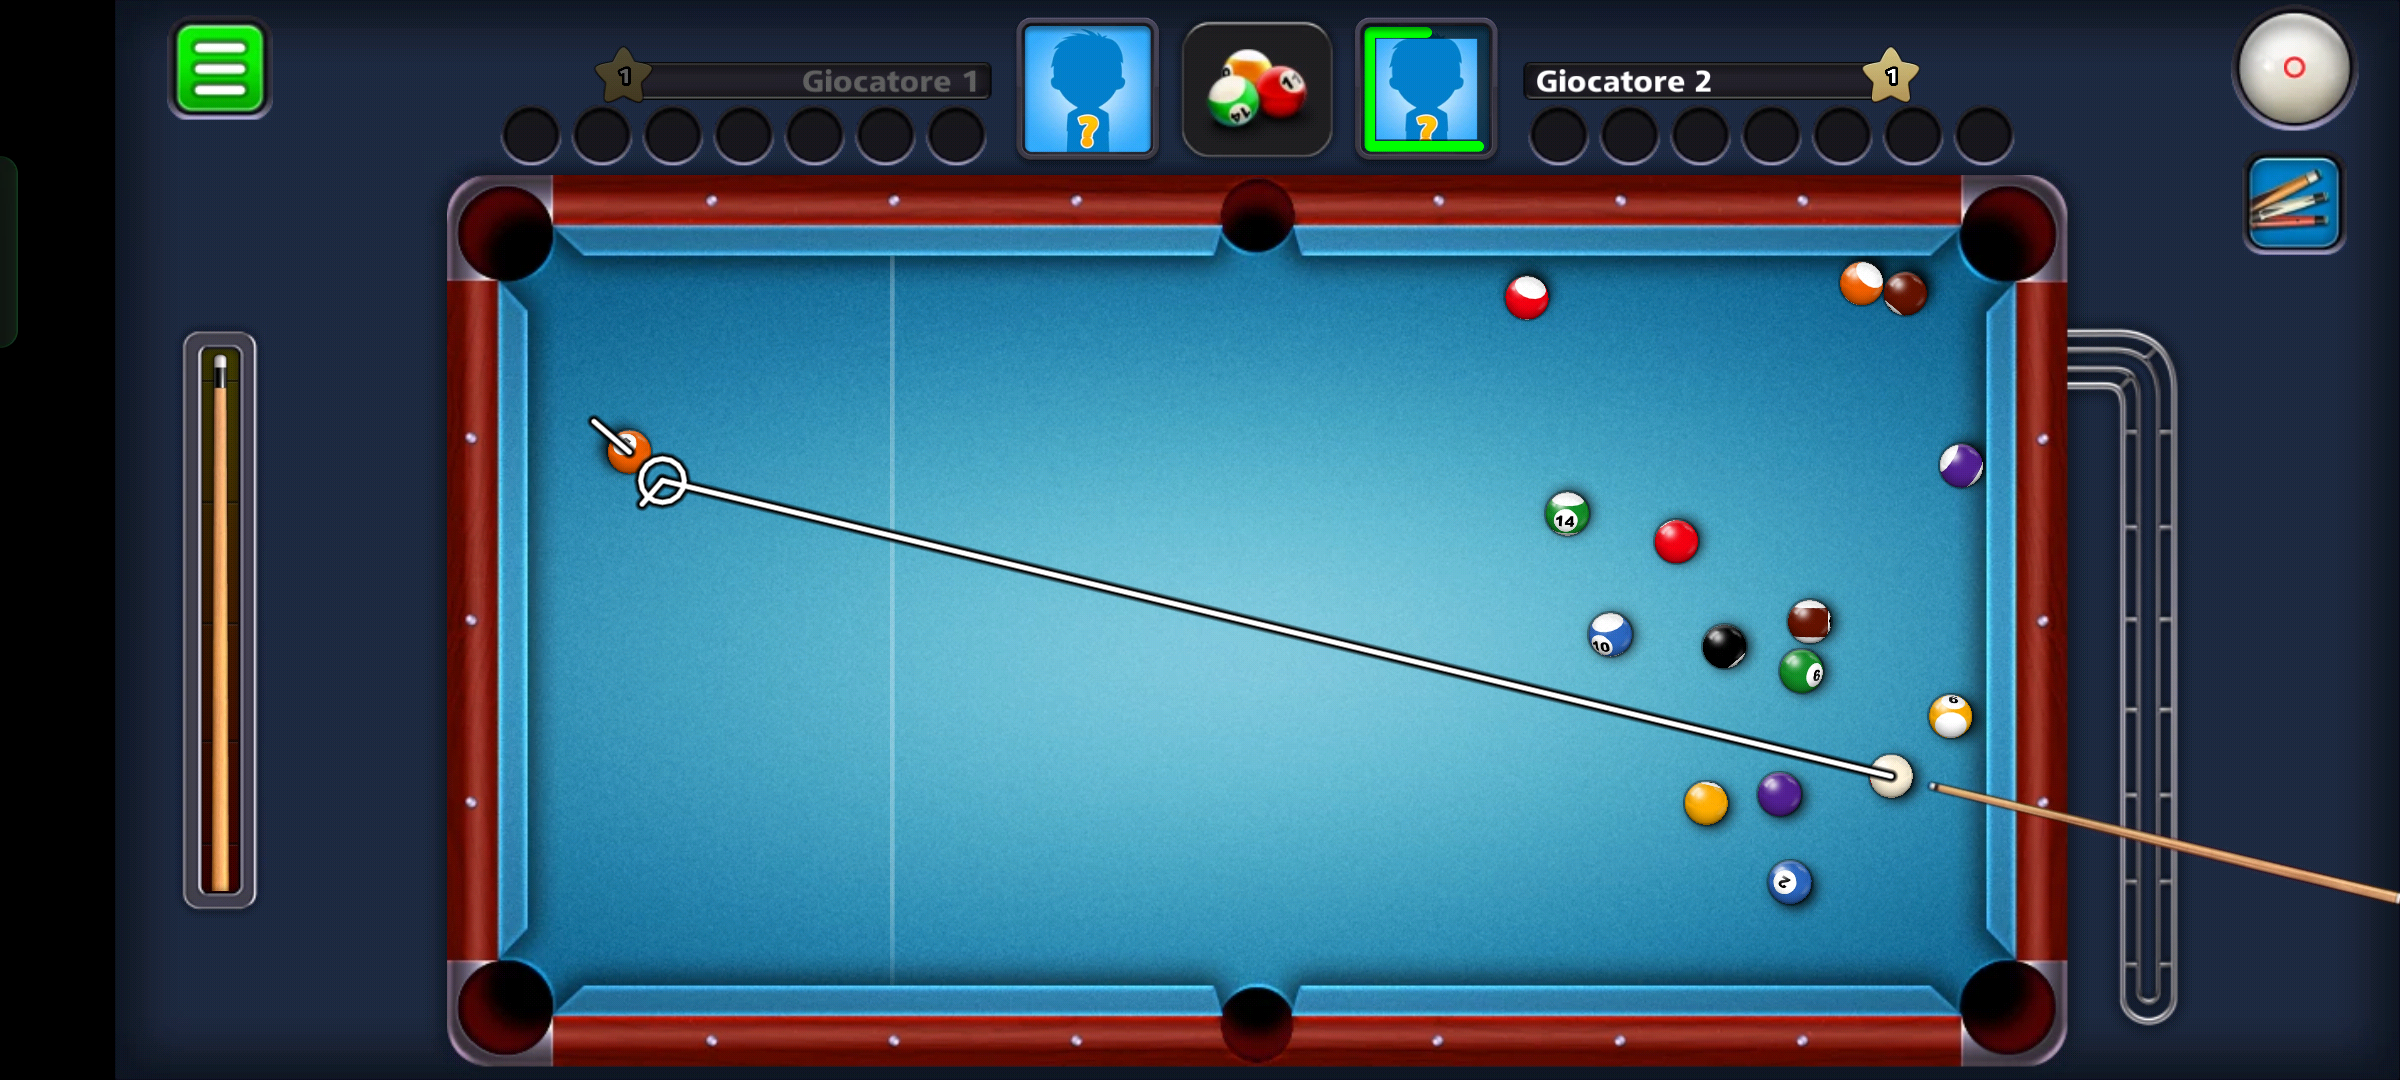
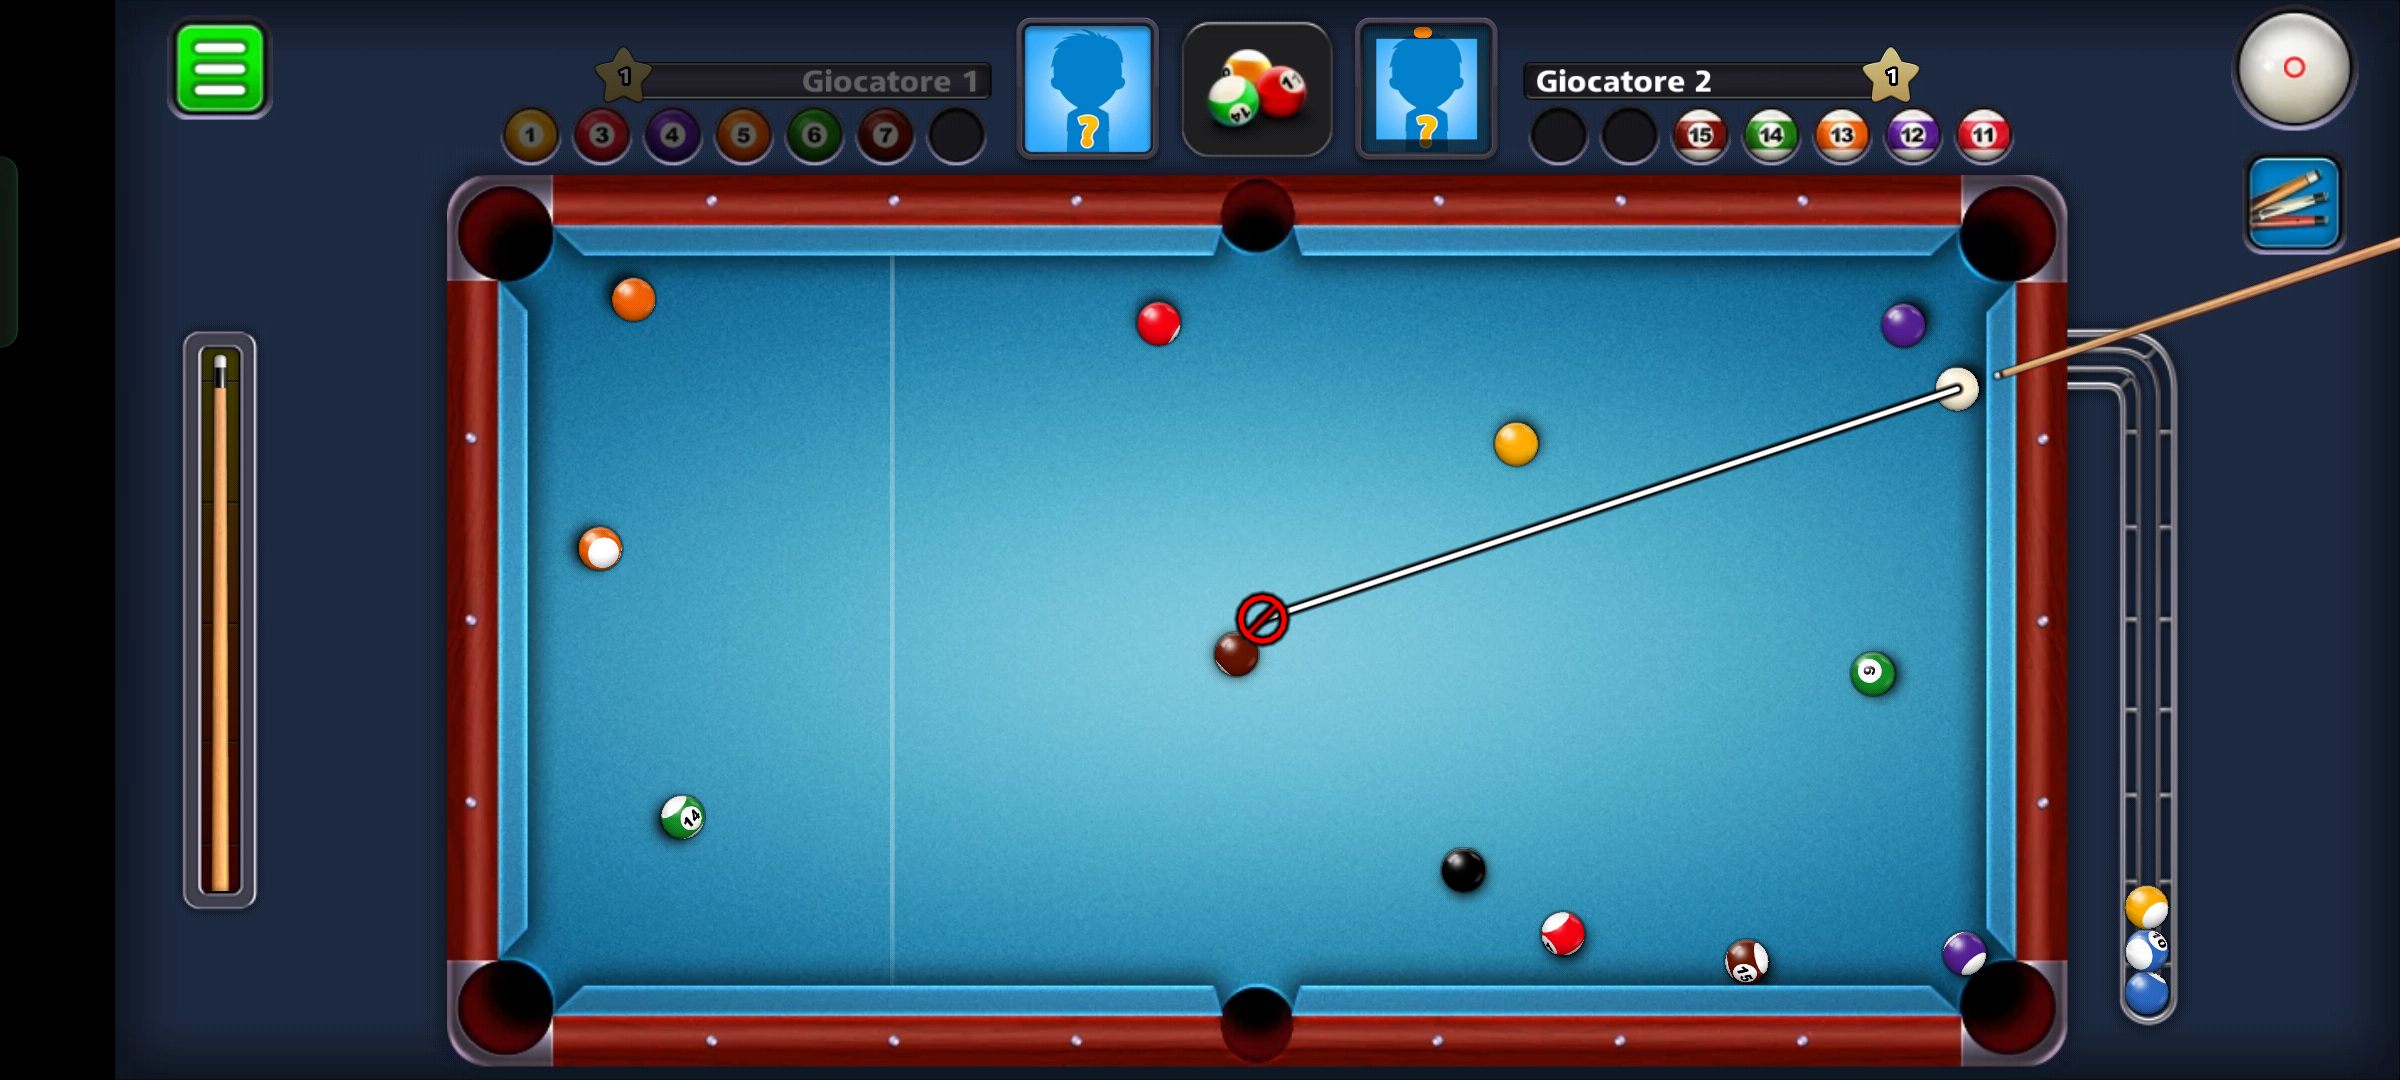
better ball contour (but not all)

diff --git a/Brain/AI/src/vision/objectsFinder.py b/Brain/AI/src/vision/objectsFinder.py
@@ -191,9 +191,10 @@ class ObjectsFinder:
         return objects_found
 
 
-    def is_circle(self,contour, circularity_threshold=0.85):
+    def is_circle(self,contour, circularity_threshold=0.5):
         area = cv2.contourArea(contour)
         perimeter = cv2.arcLength(contour, True)
+        
         
         if perimeter == 0:
             return False
@@ -343,6 +344,89 @@ class ObjectsFinder:
         if regex.match(elem):
             return elem
         else:
-            return None        
+            return None 
+        
 
-    
+    def bp_is_circle(self,contour, circularity_threshold=0.65):
+        hull = cv2.convexHull(contour)
+        area = cv2.contourArea(hull)
+        perimeter = cv2.arcLength(hull, True)
+        
+        
+        if perimeter == 0:
+            return False
+        circularity = 4 * 3.14159 * area / (perimeter * perimeter)
+        
+        return circularity >= circularity_threshold
+
+
+    def _find_ball_pool(self, search_info:Circle):
+        canny_threshold = search_info.canny_threshold
+        min_radius = search_info.min_radius
+        
+        gray = self.__gray
+        # threshold
+        # 1. Filtro Bilaterale per ridurre il rumore preservando i bordi
+        filtered = cv2.bilateralFilter(gray, d=3, sigmaColor=90, sigmaSpace=105)
+
+        # 2. Dilatazione per connettere eventuali spazi vuoti nei bordi
+        kernel_dilate = cv2.getStructuringElement(cv2.MORPH_ELLIPSE, (4, 4))
+        dilated = cv2.dilate(filtered, kernel_dilate, iterations=1)
+
+        # 3. Rilevamento dei bordi con Canny
+        #    Soglia inferiore = canny_threshold, superiore = canny_threshold * 2 (invece di 2.5)
+        canny = cv2.Canny(dilated, canny_threshold, int(canny_threshold * 1.5))
+
+        # 4. Operazione morfologica di Closing per chiudere lacune nei bordi
+        kernel = cv2.getStructuringElement(cv2.MORPH_ELLIPSE, (4, 4))
+        canny = cv2.morphologyEx(canny, cv2.MORPH_CLOSE, kernel)
+
+        # 5. Estrazione dei contorni
+        contours, _ = cv2.findContours(canny, cv2.RETR_TREE, cv2.CHAIN_APPROX_SIMPLE)
+
+        # 6. Filtraggio dei contorni che rappresentano palle (forme circolari)
+        #circles = [cnt for cnt in contours if self.bp_is_circle(cnt)]
+        circles = contours
+        if self.debug and not self.validation:
+            # Visualizzazione di debug: disegna tutti i contorni sull'immagine canny
+            #canny_color = cv2.cvtColor(canny, cv2.COLOR_GRAY2RGB)
+            #cv2.drawContours(canny_color, contours, -1, (255, 0, 0), 1)
+            """plt.imshow(canny_color)
+            plt.show()"""
+        gray_color = cv2.cvtColor(gray, cv2.COLOR_GRAY2RGB)
+        balls = []
+        if circles is not None:
+            for circle in circles:
+                (center), r = cv2.minEnclosingCircle(circle)
+                if r < min_radius:
+                    continue
+
+                if search_info.min_radius is not None:
+                    max_radius = search_info.max_radius
+                    if r > max_radius:
+                        continue
+                
+                # Ottiene il colore del pixel al centro dalla versione già filtrata (o dalla immagine blurred se disponibile)
+                x = int(center[0])
+                y = int(center[1])
+                r = int(r)
+
+                if search_info.area != None:
+                    x_min, y_min, x_max, y_max = search_info.area
+                    if not (x_min <= x <= x_max and 
+                            y_min <= y <= y_max):
+                        continue
+
+                color = np.array(self.__blurred[y, x])
+                if self.debug and not self.validation:
+                    print(f"Found ball pool:({x}, {y}): {color}")
+                # Disegna il cerchio sull'immagine di output
+                cv2.circle(self.__img_matrix, (x, y), r, (0, 255, 0), 2)
+                cv2.putText(self.__img_matrix, f"({x}, {y})", (x + 10, y),
+                            cv2.FONT_HERSHEY_SIMPLEX, 0.7, (255, 255, 255), 2)
+                balls.append(OutputCircle(x, y, r, color.tolist()))
+            if self.debug and not self.validation:
+                plt.imshow(cv2.cvtColor(self.__img_matrix, cv2.COLOR_BGR2RGB))
+                plt.show()
+                cv2.waitKey(0)
+        return balls

diff --git a/Brain/AI/src/ball_pool/detect/new_detect.py b/Brain/AI/src/ball_pool/detect/new_detect.py
@@ -141,8 +141,12 @@ class MatchingBallPool:
         self.img_width = self.image.shape[1]
         
         # 4) Rilevamento cerchi delle palline
-        ball_circles = self.detect_balls_circles(detection_gray)
-
+        #ball_circles = self.detect_balls_circles(detection_gray)
+        ball_circles = self.finder._find_ball_pool(
+            Circle(self.BALLS_MIN_RADIUS-1, 100, self.BALLS_MAX_RADIUS+2,
+                   (x,y,w,h))
+        )
+        print(f"Ball circles len {len(ball_circles)}")
         # 5) Rilevamento cerchi delle buche (puoi scegliere se usare detection_gray/detection_image o l'immagine intera)
         pocket_circles = self.detect_pockets_circles(detection_gray)
 
@@ -207,7 +211,7 @@ class MatchingBallPool:
             return True
         return False
     
-    def detect_direction_line(self, roi_coords, r):
+    def detect_direction_line(self, roi_coords, r, ball_x, ball_y):
         """
         Cerca di rilevare una linea interna (ad es. la linea di direzione) all'interno dell'ROI,
         che sia formata da pixel bianchi.
@@ -253,9 +257,18 @@ class MatchingBallPool:
                 
                 # Se la linea è formata prevalentemente da pixel bianchi (media >= 200)
                 # o ha lunghezza maggiore del candidato precedente, allora la selezioniamo
+                x = x_start + x1
+                y = y_start + y1
+                w = x_end + x1
+                h = y_end + y1 
+
+                print(f"x1: {x1} y1: {y1}-")
+                print(f"x:  {x}   y: {y} -- ")
                 if mean_white >= 200 or line_length > best_length:
+                    
                     best_length = line_length
-                    best_line = (x_start + x1, y_start + y1, x_end + x1, y_end + y1)
+                    best_line = (x, y, w, h)
+                    
             
             # Restituisce la linea se la lunghezza è adeguata
             if best_line is not None:
@@ -492,7 +505,7 @@ class MatchingBallPool:
                 # Controlla che il ROI mostri un interno bianco e bordi neri
                 if self.check_white_circle_with_black_border(roi_coords, r):
                     # Rileva la linea interna (direction_line) in coordinate globali
-                    direction_line = self.detect_direction_line(roi_coords, r)
+                    direction_line = self.detect_direction_line(roi_coords, r, x, y)
                     if direction_line is not None:
                         ball_obj.get_color().set_ball_type("cue aim")
                         line_x1, line_y1, line_x2, line_y2 = direction_line
@@ -512,7 +525,14 @@ class MatchingBallPool:
         # Chiama la funzione per trovare due linee perpendicolari tra loro (già definita altrove)
         perp_lines = self.find_perpendicular_lines(raw_aim_lines)
         if perp_lines is not None:
-            print("Found perpendicular lines:", perp_lines)
+            print("Found perpendicular lines:",)
+            reset = 0
+            for x,y, dir_line, len_line in perp_lines:
+                print(f"Found PERP line at ({x}, {y}) {direction_line} len {len_line}")
+                reset += 1
+                if reset == 2:
+                    print("\r")
+                    reset = 0
         else:
             print("No perpendicular lines found.")
 
@@ -587,7 +607,8 @@ class MatchingBallPool:
 
         print(f"Balls show {len(self.__balls)}")
         print(f"Pockets show {len(self.__pockets)}")
-        print(f"Aim lines show {len(self.__aim_lines)}")
+        if self.__aim_lines != None:
+            print(f"Aim lines show {len(self.__aim_lines)}")
         
 
         # Disegna il rettangolo dell'area (in rosso)

diff --git a/Brain/AI/src/ball_pool/helper.py b/Brain/AI/src/ball_pool/helper.py
@@ -92,8 +92,10 @@ def persist_threshold(value):
 
 
 def ball_pool(screenshot, debug=True, vision_val = None, abstraction_val=True, iteration=0):
+    #screenshot,args.debugVision,vision,abstraction,iteration
 
-    matcher = MatchingBallPool(screenshot, debug, vision_val != None, iteration)
+    matcher = MatchingBallPool(screenshot_path=screenshot, debug=True, validation= 
+                               vision_val!= None, iteration=iteration)
     pool_chart = matcher.get_balls_chart()  # Rileva le palline e (eventualmente) le pocket o le informazioni sul tavolo
     #balls_chart = {"balls": [], "pockets": []}
 

diff --git a/Brain/AI/src/vision/input_game_object.py b/Brain/AI/src/vision/input_game_object.py
@@ -1,9 +1,10 @@
 from AI.src.vision.output_game_object import OutputRectangle
 class Circle:
-    def __init__(self,min_radius,canny_threshold, max_radius = None,param1 = None, param2 = None):
+    def __init__(self,min_radius,canny_threshold, max_radius = None,area = None):
         self.min_radius=min_radius
         self.canny_threshold=canny_threshold
         self.max_radius=max_radius
+        self.area = area
 
 class TemplateMatch:
     def __init__(self,templates:dict,thresholds:dict, find_all=True,regmax=True,grayscale=False):
